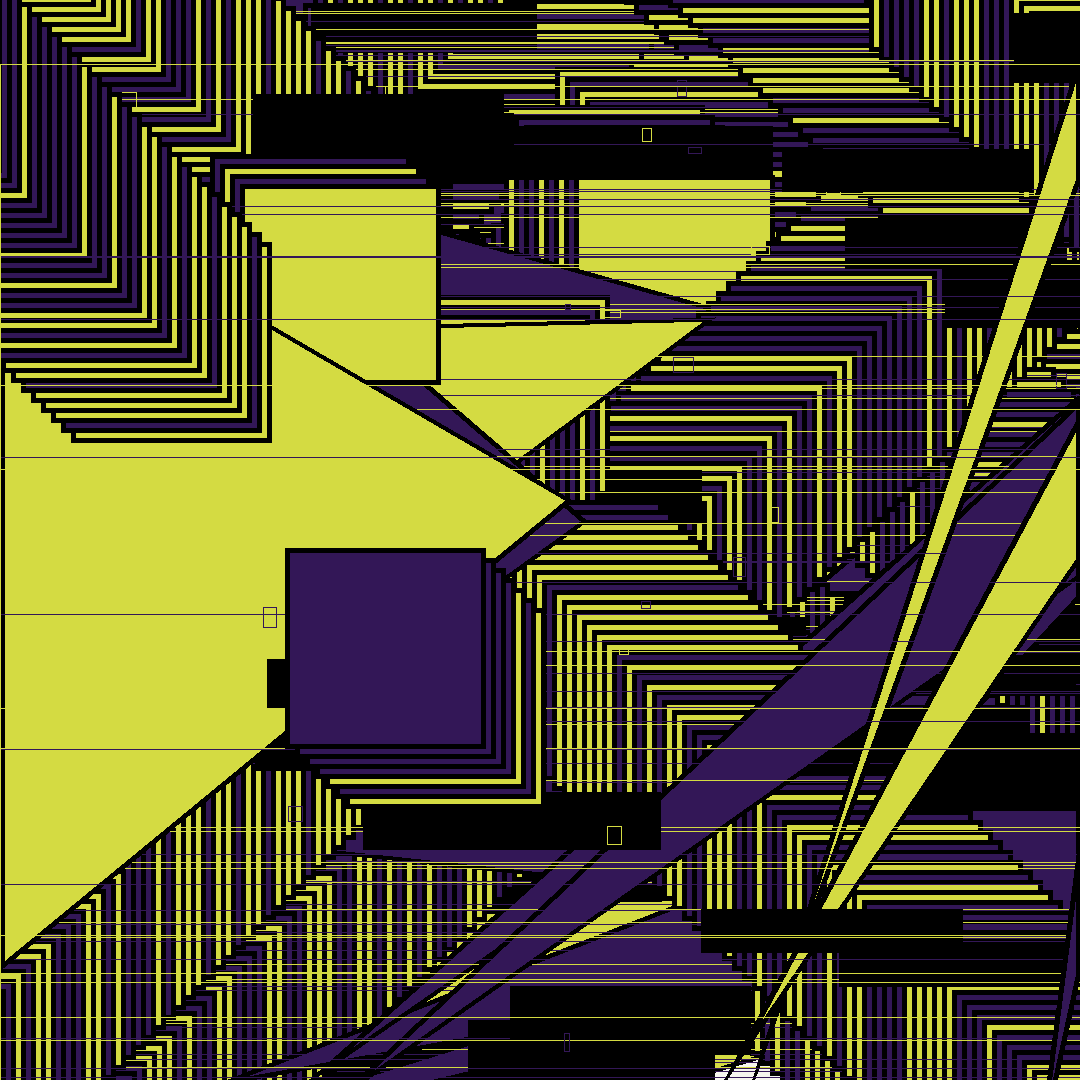
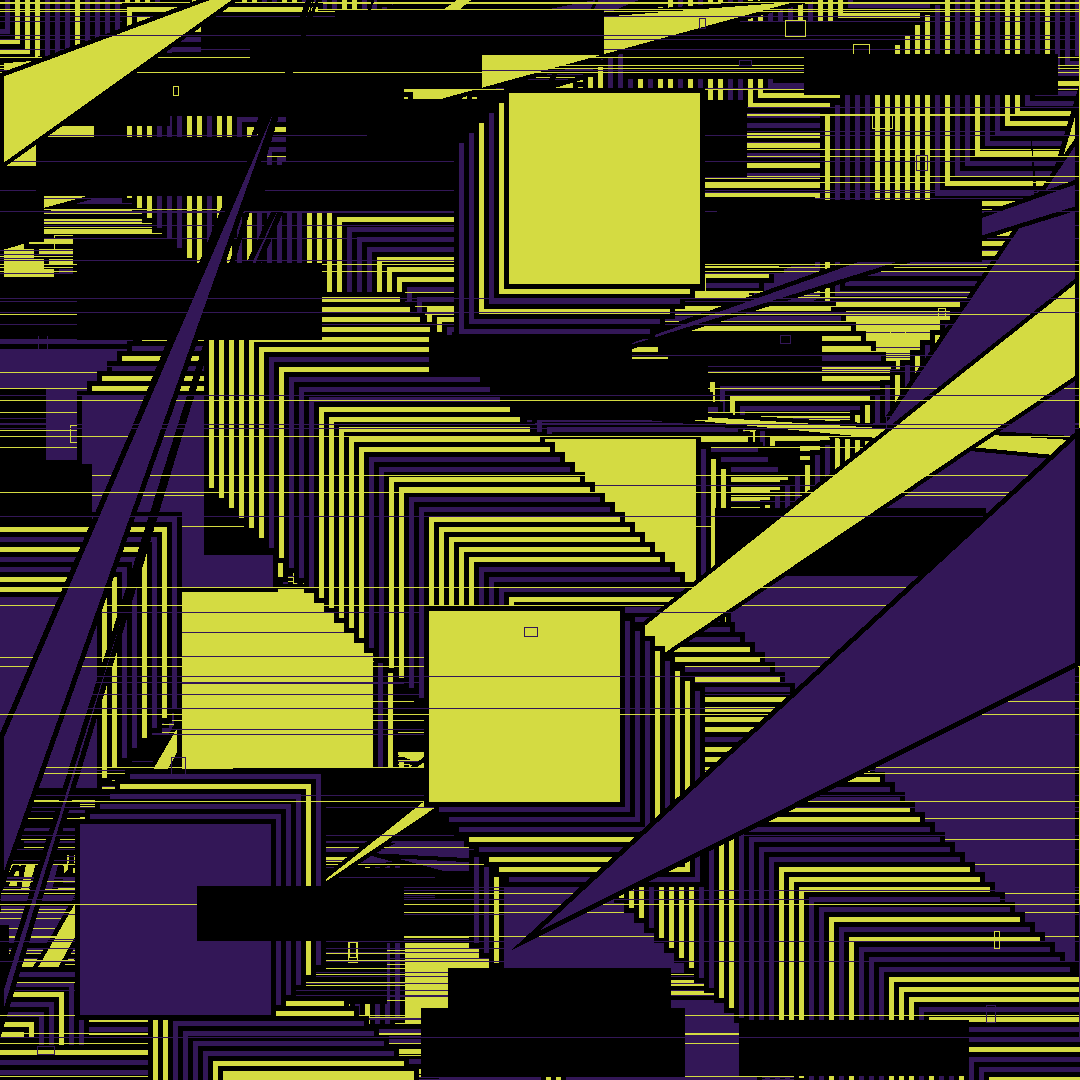
Add files via upload

diff --git a/main.py b/main.py
@@ -67,9 +67,9 @@ def schemealt():
 shapes = 60
 count = 1
 
-photo = Image.open('back.png')
-draw = ImageDraw.Draw(photo)
-width, height = photo.size
+art = Image.open('back.png')
+draw = ImageDraw.Draw(art)
+width, height = art.size
 
 # --- Traits --- #
 def glitchbranch():
@@ -147,12 +147,19 @@ def triangles():
 
     draw.polygon(((x_1, y_1), (x_2, y_2), (x_3, y_3)),fill=schemealt(), outline=0, width=5)
 
+def rotate():
+  global art
+  global rotation
+  # Left: 0, Down: 1, Right: 2, Up: 3
+  rotation = random.randint(0, 3)
+  art = art.rotate(rotation * 90)
+
 # --- Traits End --- #
 
 # --- Generator --- #
 for f in range(count):
-  photo = Image.open('back.png')
-  draw = ImageDraw.Draw(photo)
+  art = Image.open('back.png')
+  draw = ImageDraw.Draw(art)
 
   for _ in range(shapes):
     shape_drag()
@@ -161,11 +168,13 @@ for f in range(count):
     shards()
     triangles()
 
+  rotate()
   shape_drag()
-  photo.save(f'nft{f + 1}.png')
+  art.save(f'nft{f + 1}.png')
 
   print(width, height)
   print(rerollspecialty, firstcol, secondcol)
   print(tokenname)
   print(totalrarity)
+  print(rotation)
 # --- Generator End --- #
